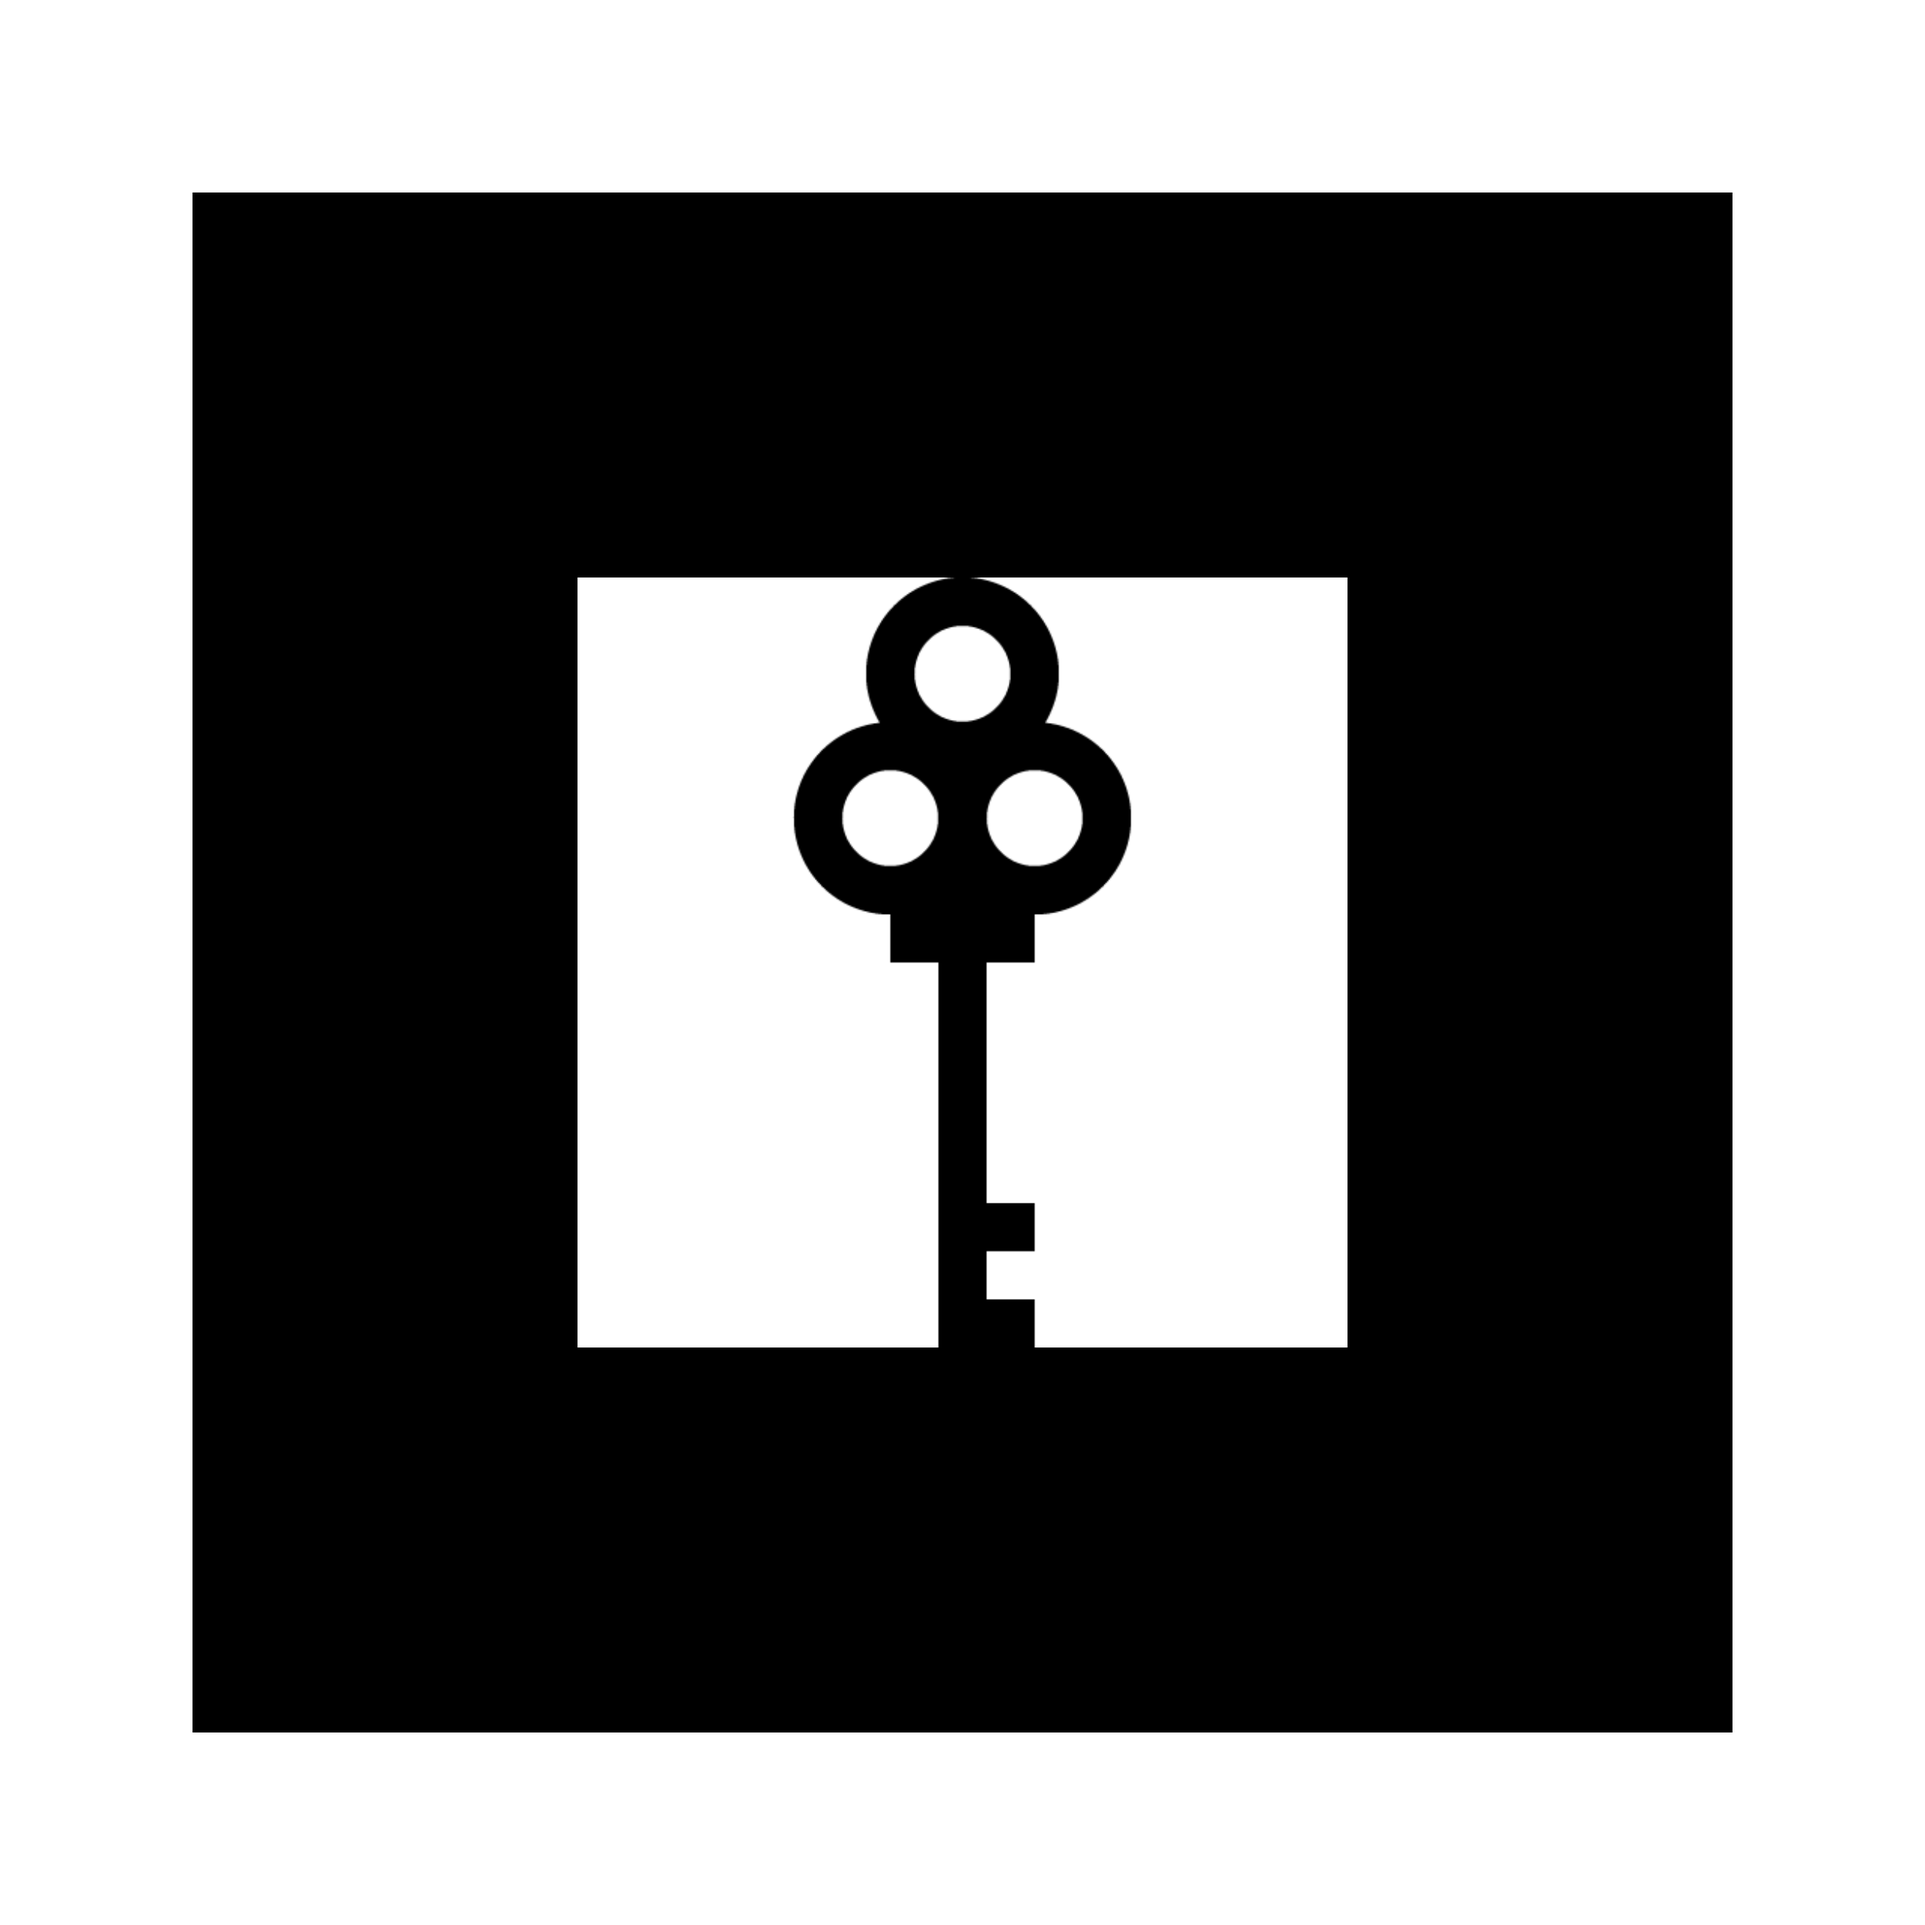
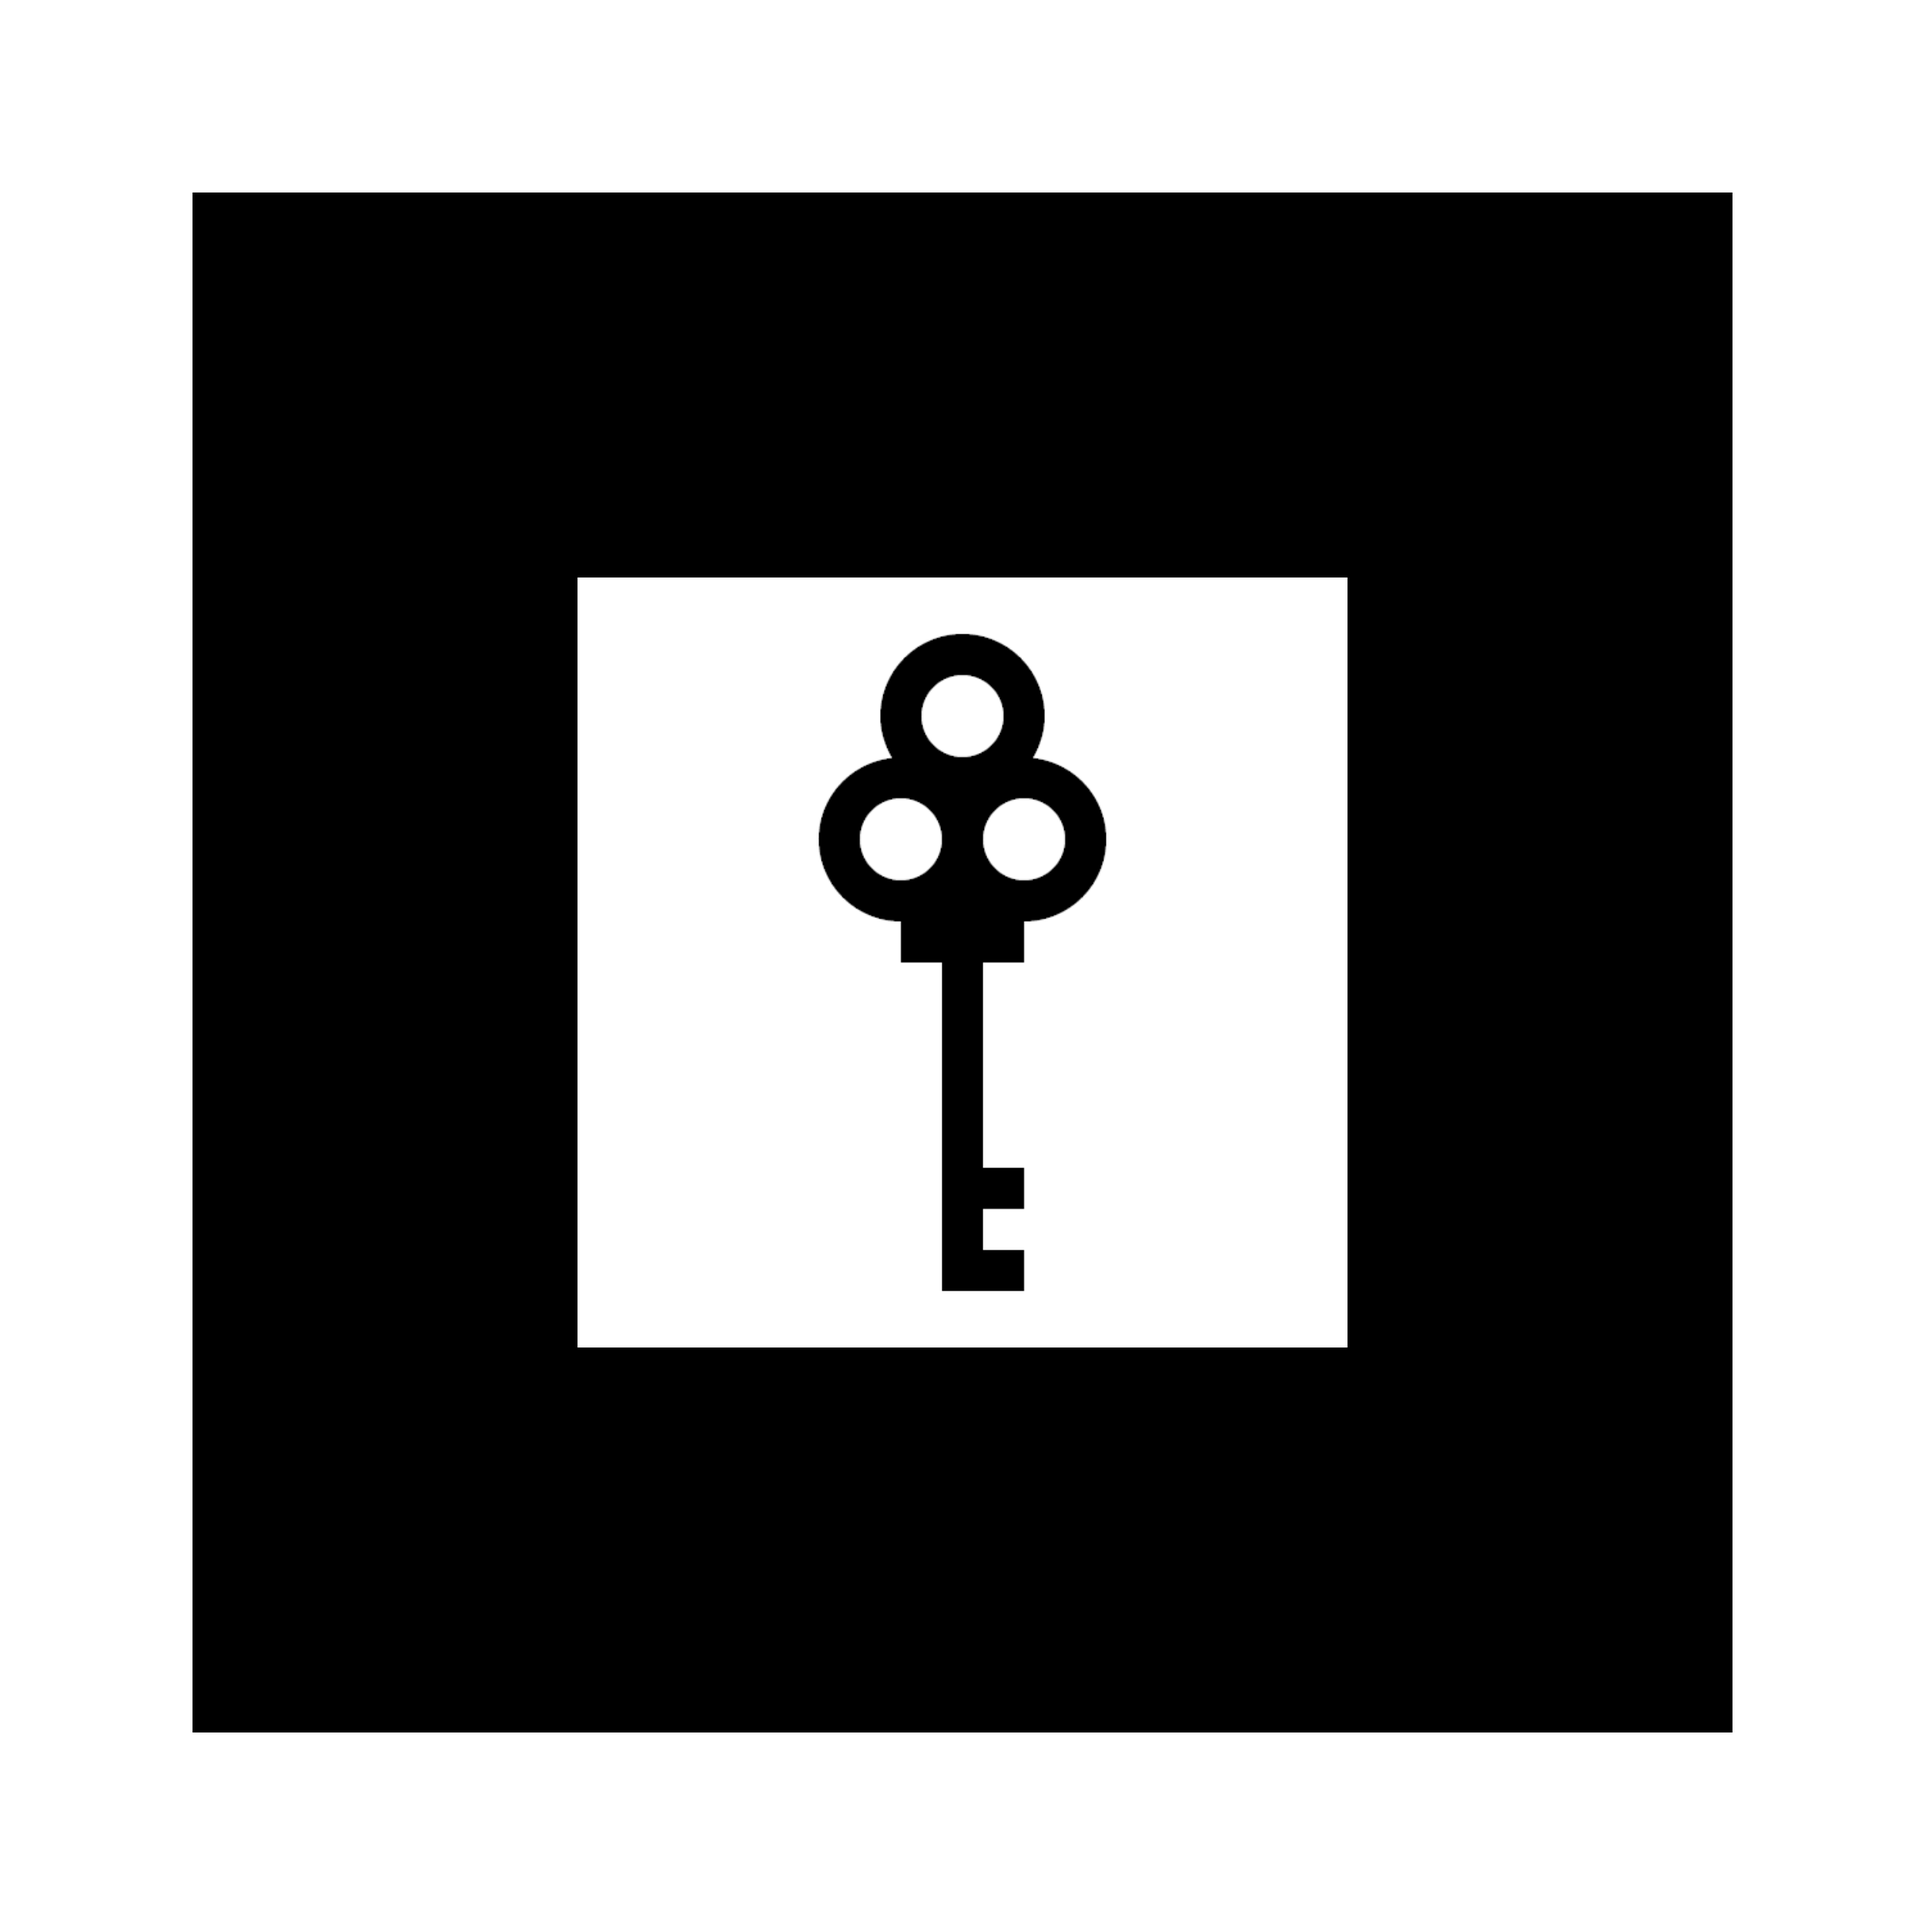
.

Changed region(s): [[0.4056, 0.2808, 0.5928, 0.4992], [0.468, 0.5928, 0.5616, 0.7176]]

diff --git a/index.html b/index.html
@@ -38,7 +38,7 @@
                     color="black"
                 ></a-text>
                 <a-entity
-                    position="0 0 -0.1"
+                    position="0 0 -0.05"
                     rotation="90 0 0"
                     scale="0.006 0.006 0.006"
                     gltf-model="models/lupe/scene.gltf"
@@ -56,7 +56,7 @@
                     color="black"
                 ></a-text>
                 <a-entity
-                    position="0 -1 0.2"
+                    position="0 0 0.5"
                     rotation="270 0 0"
                     scale="0.005 0.005 0.005"
                     gltf-model="models/pipe/scene.gltf"
